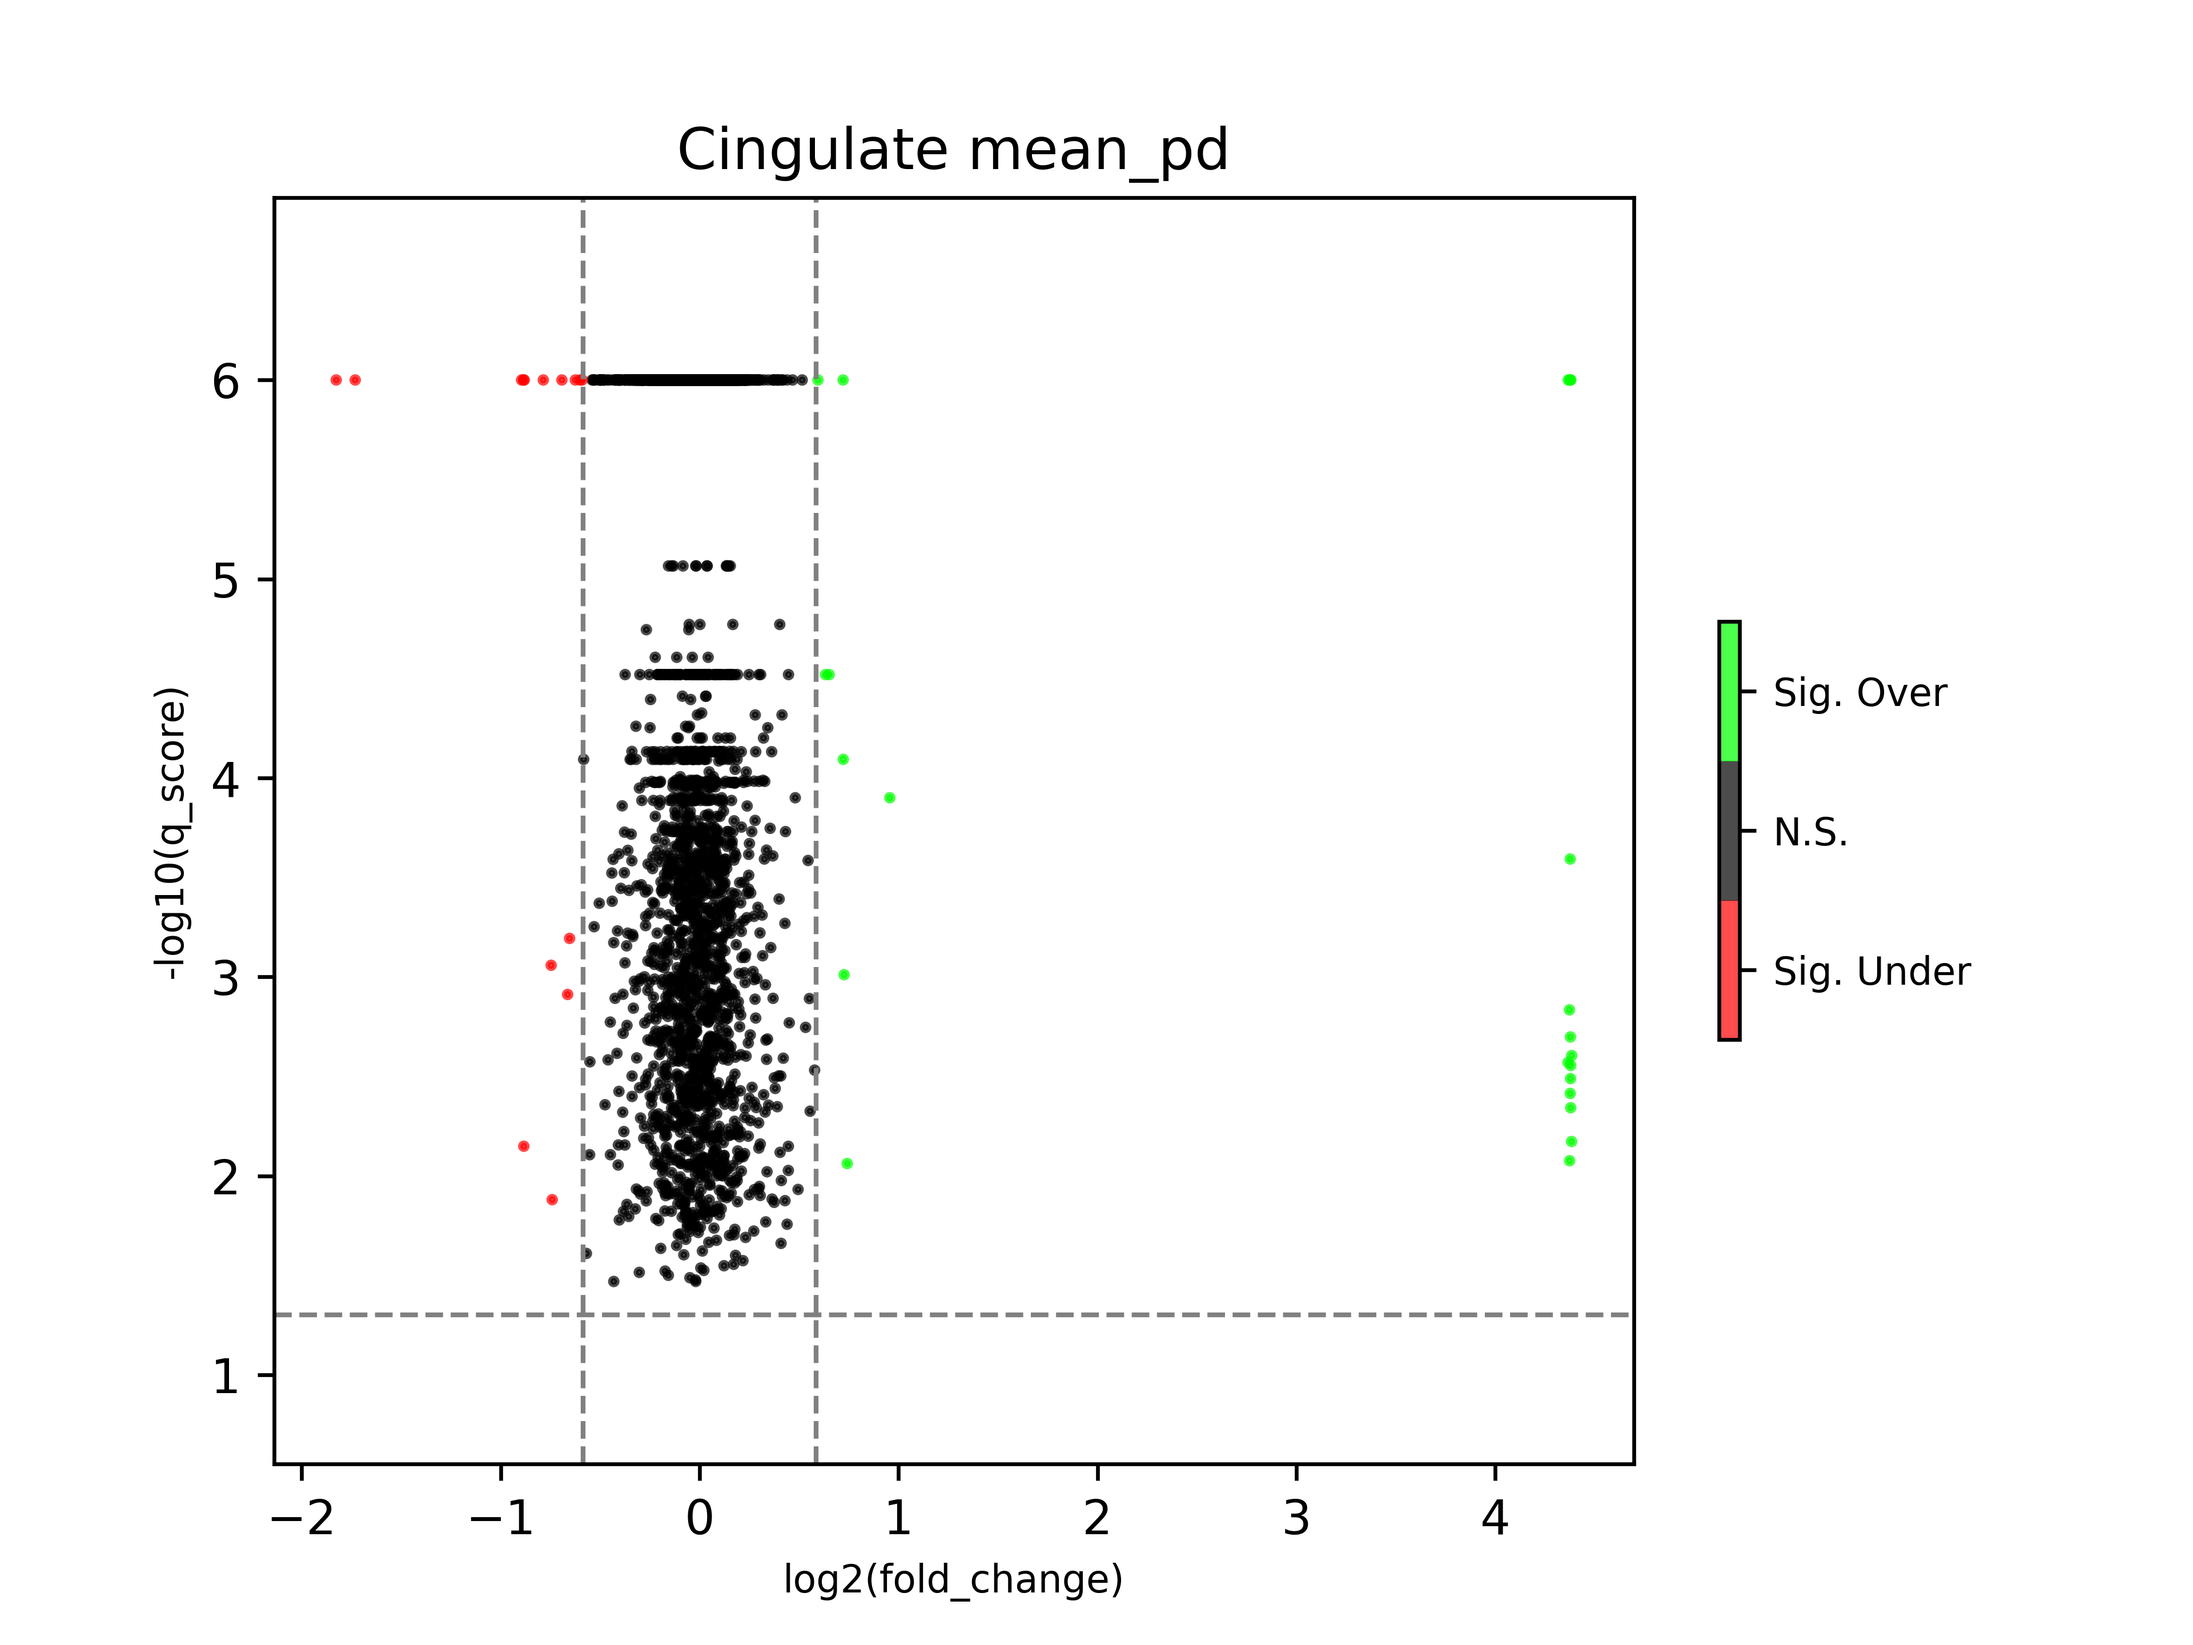
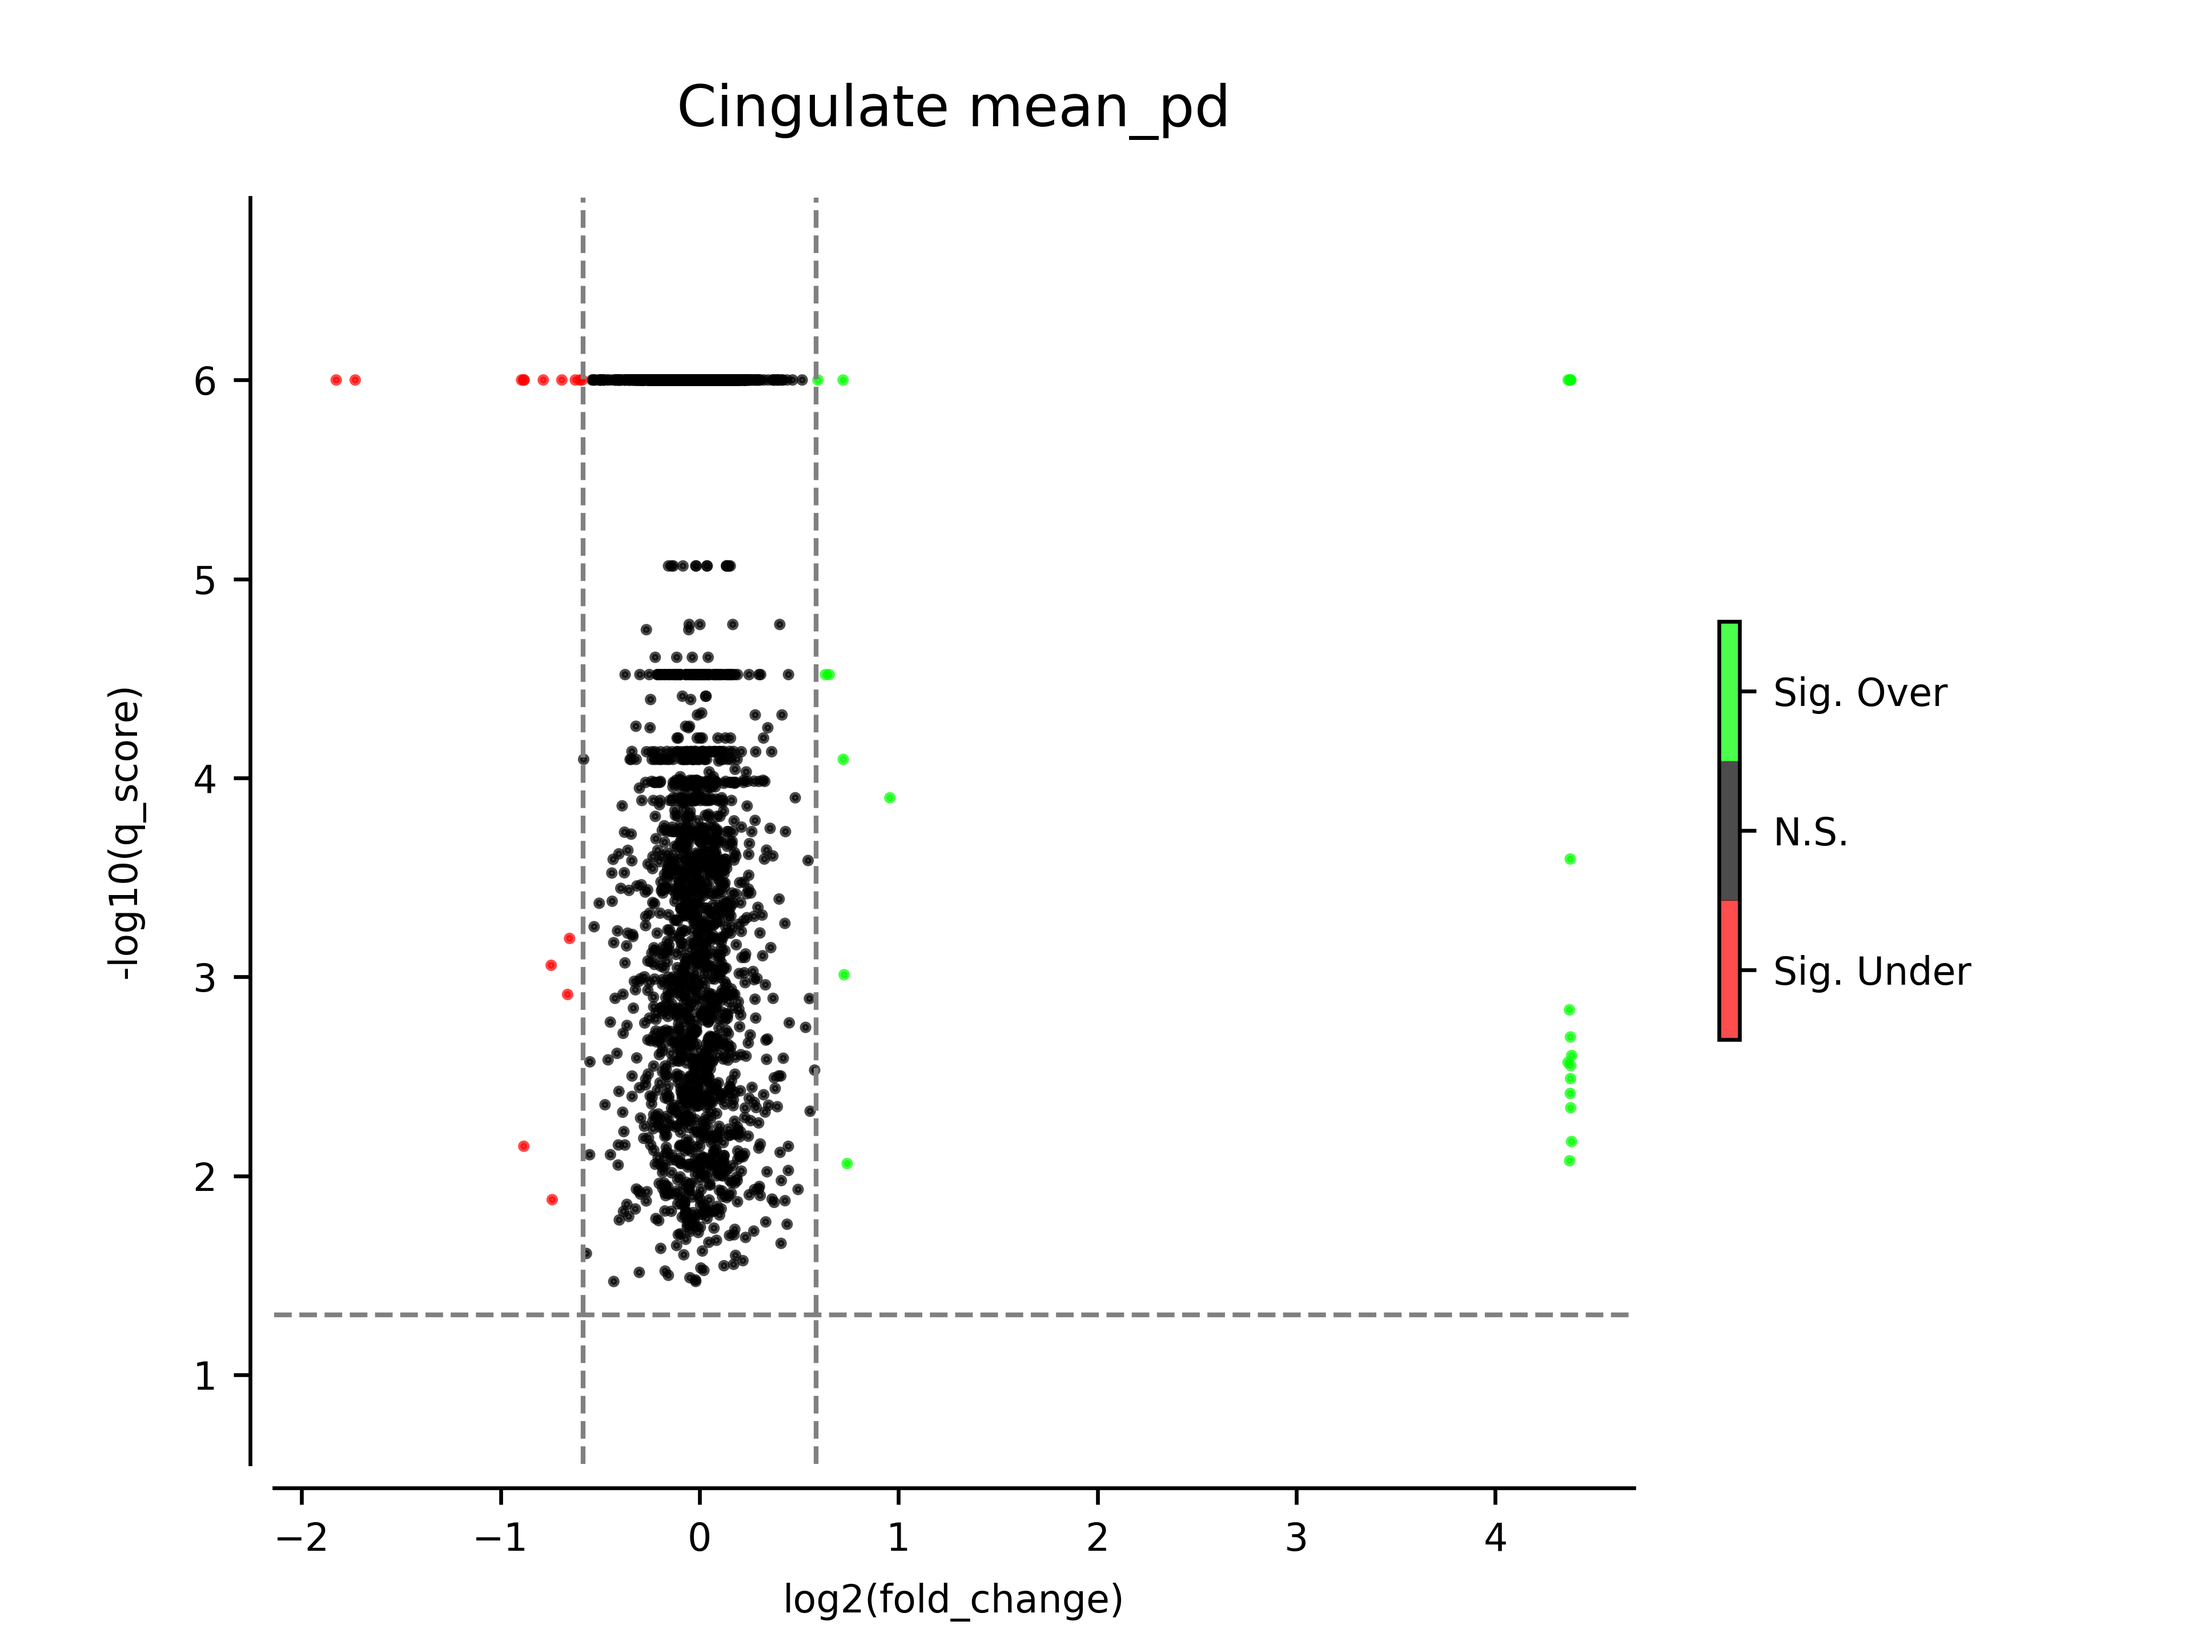
Despined volcano plot

diff --git a/src/data/CleanFrame.py b/src/data/CleanFrame.py
@@ -1,7 +1,11 @@
 import matplotlib.pyplot as plt
-from matplotlib.colors import LinearSegmentedColormap
 import numpy as np
 import pandas as pd
+import umap
+import seaborn as sns
+from matplotlib.colors import LinearSegmentedColormap
+
+import src.data.CleanFrame as cf
 
 
 class CleanFrame(pd.core.frame.DataFrame):
@@ -146,39 +150,41 @@ class CleanFrame(pd.core.frame.DataFrame):
         save=False,
         path="reports/figures/volcano.png",
     ):
+
         """Makes a volcano plot of the data
 
         Inputs
         ------
         x: str
-            Column name containing fold change values
+        Column name containing fold change values
         y: str
-            Column name containing q_scores
+        Column name containing q_scores
         is_log: bool, Optional
-            Whether or not the passed data has already had its log taken
-            If false, the appropriate log will be taken of both x and y
+        Whether or not the passed data has already had its log taken
+        If false, the appropriate log will be taken of both x and y
         fold_cut: numeric, Optional
-            log2(fold_change) to consider significant
-            Default is fold_change greater than 1.5
+        log2(fold_change) to consider significant
+        Default is fold_change greater than 1.5
         fold_cut: numeric, Optional
-            -log10(q_score) to consider significant
-            Default is q_score less than 0.05
+        -log10(q_score) to consider significant
+        Default is q_score less than 0.05
         title: str, Optional
-            Plot title
+        Plot title
         title_size: numeric, Optional
-            Font size, in pts, to use for Figure title
+        Font size, in pts, to use for Figure title
         label_size: numeric, Optional
-            Font size, in pts, to use for axes title
+        Font size, in pts, to use for axes title
         show: bool, Optional
-            If true, display the plot
+        If true, display the plot
         save: bool, Optional
-            If true, save the plot
+        If true, save the plot
         path: str, Optional
-            Where to save the plot, if save == True
-        
+        Where to save the plot, if save == True
+
         Outputs
         -------
         """
+
         # Type check inputs
         for i in (x, y, title, path):
             if not isinstance(i, str):
@@ -195,16 +201,12 @@ class CleanFrame(pd.core.frame.DataFrame):
 
         # Log, if necessary
         if not is_log:
-            x = np.log2(self[x])
-            y = -np.log10(self[y])
+            x, y = np.log2(self[x]), -np.log10(self[y])
         else:
-            x = self[x]
-            y = self[y]
+            x, y = self[x], self[y]
 
         # Create red, black green custom color map
-        cmap = LinearSegmentedColormap.from_list(
-            "Volcano", [(1, 0, 0), (0, 0, 0), (0, 1, 0)], N=3
-        )
+        cmap = LinearSegmentedColormap.from_list("Volcano", [(1, 0, 0), (0, 0, 0), (0, 1, 0)], N=3)
 
         # Establish colors
         conditions = [(y >= q_cut) & (x >= fold_cut), (y >= q_cut) & (x <= -fold_cut)]
@@ -216,9 +218,10 @@ class CleanFrame(pd.core.frame.DataFrame):
         plt.axvline(fold_cut, linestyle="--", color="gray", linewidth=1)
         plt.axvline(-fold_cut, linestyle="--", color="gray", linewidth=1)
         plt.axhline(q_cut, linestyle="--", color="gray", linewidth=1)
+        sns.despine(offset=5, trim=False)
 
         # Plot settings
-        plt.title(title, fontdict={"fontsize": title_size})
+        plt.title(title, fontdict={"fontsize": title_size}, pad=15)
         plt.gca().set_aspect("equal", "datalim")
         cbar = plt.colorbar(
             boundaries=np.arange(4) - 0.5, ticks=np.arange(3), shrink=0.33
@@ -226,23 +229,32 @@ class CleanFrame(pd.core.frame.DataFrame):
         cbar.ax.set_yticklabels(
             ["Sig. Under", "N.S.", "Sig. Over"], fontdict={"fontsize": label_size}
         )
-        plt.xlabel("log2(fold_change)", fontdict={"fontsize": label_size})
-        plt.ylabel("-log10(q_score)", fontdict={"fontsize": label_size})
+        plt.xlabel("log2(fold_change)", fontdict={"fontsize": label_size}, labelpad=5)
+        plt.ylabel("-log10(q_score)", fontdict={"fontsize": label_size}, labelpad=10)
+        plt.tick_params(axis='both', labelsize=label_size)
         plt.savefig(path, dpi=600)
 
-    def umap(self, X, title="UMAP Plot", title_size=12, label_size=8, **kwargs):
+    def umap(self, X_list, y_name, title="UMAP Plot", title_size=12, label_size=8, **kwargs):
         """Makes a UMAP plot of the data
 
         Inputs
         ------
-        X: iterable
+        X_list: iterable
             List of columns to be used as features
+        y_name: str
+            Column containing labels
         title: str, Optional
             Plot title
         title_size: numeric, Optional
             Font size, in pts, to use for Figure title
         label_size: numeric, Otional
             Font size, in pts, to use for axes title
+        show: bool, Optional
+            If true, display the plot
+        save: bool, Optional
+            If true, save the plot
+        path: str, Optional
+            Where to save the plot, if save == True
         kwargs:
             Additional parameters to be passed to umap.UMAP()
 
@@ -250,11 +262,12 @@ class CleanFrame(pd.core.frame.DataFrame):
         -------
         """
         # Type check inputs
-        for i in (x, y, title):
+        for i in (y_name, title):
             if not isinstance(i, str):
                 raise ValueError(f"{i} must be a str")
-        if not isinstance(is_log, bool):
-            raise ValueError("is_log must be a bool")
+        for i in (is_log, save, show):
+            if not isinstance(i, bool):
+                raise ValueError(f"{i} must be a bool")
         for var in (title_size, label_size):
             try:
                 float(var)
@@ -262,32 +275,32 @@ class CleanFrame(pd.core.frame.DataFrame):
                 print(f"{var} needs to be numeric")
                 raise
 
-        # Log, if necessary
-        if not is_log:
-            x = np.log2(self[x])
-            y = -np.log10(self[y])
-        else:
-            x = self[x]
-            y = self[y]
+        # Reducer for umap
+        X = self[X_list]
+        y = self[y_name]
+        reducer = umap.UMAP(random_state=1, **kwargs)
+        embedding = reducer_cingulate.fit_transform(X_cingulate)
 
-        # Create red, black green custom color map
-        cmap = LinearSegmentedColormap.from_list(
-            "Volcano", [(1, 0, 0), (0, 0, 0), (0, 1, 0)], N=3
-        )
+        # Create conditions/choices for colors
+        choices = np.arange(len(y))
+        conditions = [y == item for item in y]
 
-        # Establish colors
-        conditions = [(y >= q_cut) & (x >= fold_cut), (y >= q_cut) & (x <= -fold_cut)]
-        choices = [2, 0]
-        colors = np.select(conditions, choices, default=1)
-
-        # Plot data
-        plt.scatter(x, y, c=colors, cmap=cmap, s=2, alpha=0.7)
-
-        # Plot settings
-        plt.title(title, fontdict={"fontsize": title_size})
-        plt.gca().set_aspect("equal", "datalim")
-        cbar = plt.colorbar(boundaries=np.arange(4) - 0.5, ticks=np.arange(3))
-        cbar.ax.set_yticklabels(["Sig. Under", "N.S.", "Sig. Over"])
-        plt.xlabel("log2(fold_change)", fontdict={"fontsize": label_size})
-        plt.ylabel("-log10(q_score)", fontdict={"fontsize": label_size})
-        plt.show()
+        # Plot UMAP
+        for data in zip(
+            (embedding_frontal, embedding_cingulate),
+            (cond_frontal, cond_cingulate),
+            ("Frontal", "Cingulate"),
+        ):
+            plt.scatter(
+                data[0][:, 0],
+                data[0][:, 1],
+                s=5,
+                c=np.select(data[1], choices, 0),
+                cmap="Spectral",
+            )
+            plt.gca().set_aspect("equal", "datalim")
+            cbar = plt.colorbar(boundaries=np.arange(5) - 0.5, ticks=np.arange(4))
+            cbar.ax.set_yticklabels(["Control", "AD", "PD", "ADPD"])
+            plt.title(f"UMAP Plot - {data[2]}")
+            plt.savefig(f"reports/figures/UMAP_{data[2]}.png", dpi=600)
+            plt.close()
